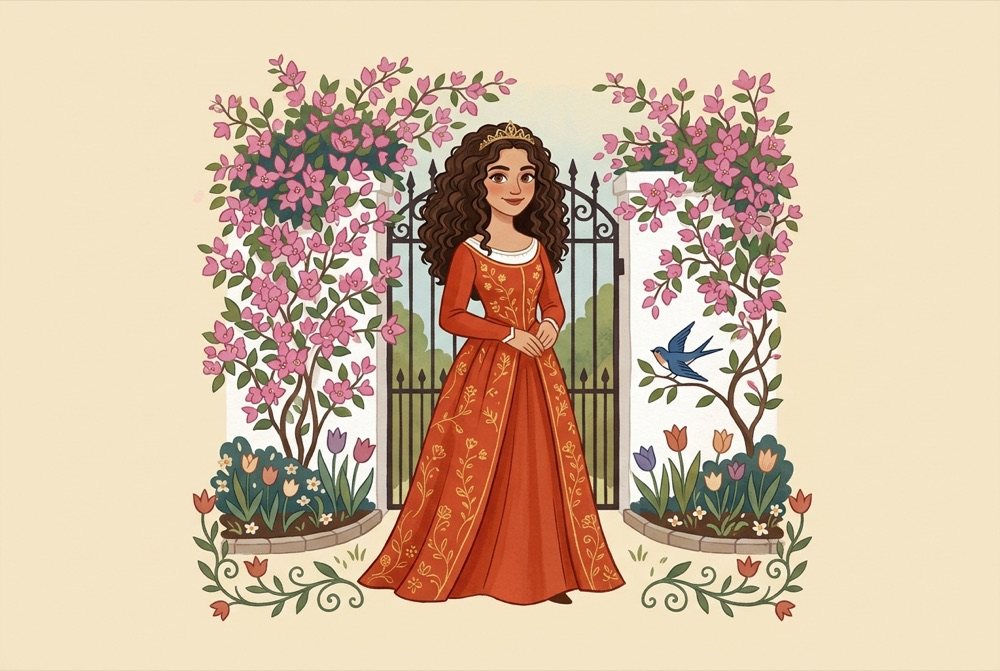
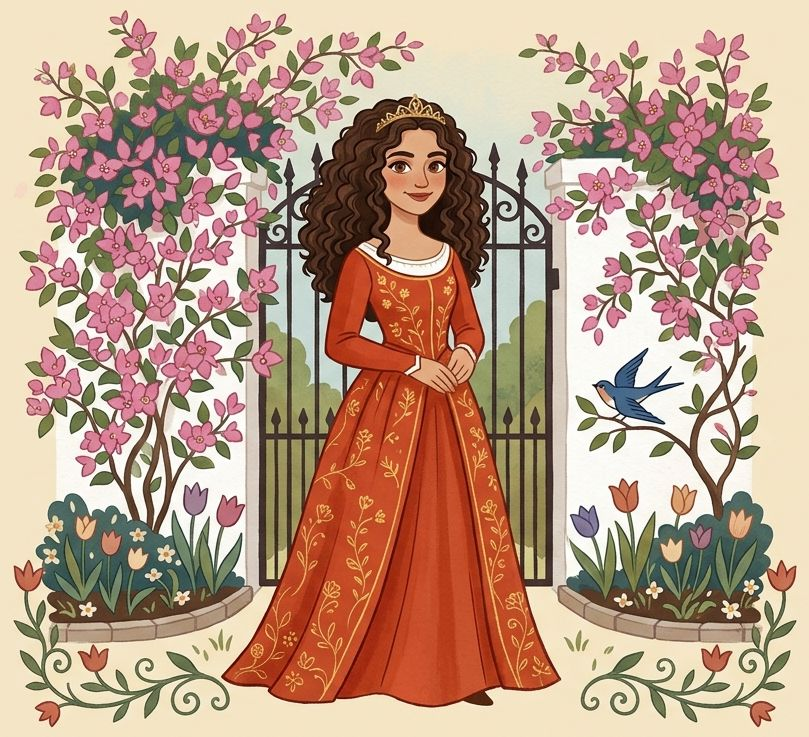
Resimlerin boş kenarlarını kırp, sayfa boşluklarını daralt, yazıları büyüt

diff --git a/src/styles.css b/src/styles.css
@@ -114,7 +114,7 @@ main {
   margin: 0 -4cqw 4cqw; padding: 1.4cqw; background: #d7b06a; border-radius: 1cqw;
   box-shadow: 0 .6cqw 1.6cqw rgba(0, 0, 0, .6), inset 0 0 0 .4cqw #8a6a2a;
 }
-.plate img { display: block; width: 100%; aspect-ratio: 1264 / 848; object-fit: cover; border-radius: .5cqw; border: .3cqw solid #5c3a14; }
+.plate img { display: block; width: 100%; height: auto; border-radius: .5cqw; border: .3cqw solid #5c3a14; }
 .cover-text p { font-style: italic; font-size: 5.6cqw; line-height: 1.2; color: #cfa766; text-shadow: 0 .25cqw 0 rgba(40, 20, 5, .8); }
 
 /* ---------- parchment pages ---------- */
@@ -126,7 +126,7 @@ main {
   background-size: cover;
   color: var(--ink);
   display: flex; flex-direction: column;
-  padding: 4.5cqw 5cqw 4cqw;
+  padding: 3.5cqw 3.5cqw 3cqw;
   cursor: zoom-in;
 }
 .page.left { border-radius: 10px 3px 3px 10px; }
@@ -149,14 +149,14 @@ main {
 
 .chapter {
   font-family: "Almendra", serif; font-weight: 700; color: var(--red);
-  font-size: 6.4cqw; text-align: center; margin: 2.5cqw 0 1cqw; line-height: 1.05;
+  font-size: 7.4cqw; text-align: center; margin: 1.8cqw 0 1.2cqw; line-height: 1.05;
 }
 .scene { flex: 1; min-height: 0; display: flex; align-items: flex-end; justify-content: center; }
 .scene svg, .scene img { width: 100%; height: 100%; }
-.scene img { object-fit: contain; object-position: center bottom; mix-blend-mode: multiply; user-select: none; }
-.story { font-size: 4.3cqw; line-height: 1.28; font-weight: 600; margin: 2.5cqw 0 1cqw; text-align: left; }
+.scene img { object-fit: contain; object-position: center; mix-blend-mode: multiply; user-select: none; border-radius: 1cqw; }
+.story { font-size: 5.1cqw; line-height: 1.3; font-weight: 600; margin: 2cqw 1cqw .5cqw; text-align: left; }
 .dropcap {
-  float: left; position: relative; width: 11cqw; height: 11cqw; margin: .6cqw 2cqw 0 0;
+  float: left; position: relative; width: 12.5cqw; height: 12.5cqw; margin: .6cqw 2cqw 0 0;
   background: #fbf3dc; border: .45cqw solid var(--ink);
   box-shadow: inset 0 0 0 .7cqw var(--red), inset 0 0 0 .95cqw var(--gold);
   display: grid; place-items: center;
@@ -164,7 +164,7 @@ main {
 .dropcap svg { position: absolute; inset: 1cqw; width: calc(100% - 2cqw); height: calc(100% - 2cqw); }
 .dropcap b {
   position: relative; font-family: "Almendra", serif; font-weight: 700;
-  font-size: 8.4cqw; line-height: 1; color: var(--blue);
+  font-size: 9.6cqw; line-height: 1; color: var(--blue);
   text-shadow: .25cqw .25cqw 0 var(--gold-2);
 }
 .dropcap.big { float: none; flex: none; width: 14cqw; height: 14cqw; margin: 0; }
@@ -172,23 +172,23 @@ main {
 .folio { text-align: center; font-size: 3.4cqw; font-style: italic; opacity: .6; margin-bottom: 1.5cqw; }
 
 .head { display: flex; align-items: flex-start; gap: 2.5cqw; margin: 3cqw 0 1cqw; }
-.head .lead { font-family: "Almendra", serif; font-weight: 700; font-size: 6.2cqw; line-height: 1.1; color: var(--red); padding-top: 1cqw; }
+.head .lead { font-family: "Almendra", serif; font-weight: 700; font-size: 7cqw; line-height: 1.1; color: var(--red); padding-top: 1cqw; }
 .head .lead .ink { color: var(--blue); }
 .couple {
   font-family: "Almendra", serif; font-weight: 700; text-align: center;
-  font-size: 13cqw; color: var(--blue); line-height: 1; margin: auto 0 4cqw;
+  font-size: 16cqw; color: var(--blue); line-height: 1; margin: auto 0 6cqw;
 }
 .couple span { color: var(--red); font-size: .6em; padding: 0 2cqw; }
-.details { list-style: none; display: grid; gap: 3.4cqw; padding: 0 2cqw; margin-bottom: auto; }
-.details li { display: flex; gap: 3cqw; align-items: center; font-size: 5cqw; line-height: 1.15; font-weight: 700; }
+.details { list-style: none; display: grid; gap: 4.5cqw; padding: 0 2cqw; margin-bottom: auto; }
+.details li { display: flex; gap: 3.5cqw; align-items: center; font-size: 6cqw; line-height: 1.15; font-weight: 700; }
 .details small { display: block; font-weight: 500; font-style: italic; font-size: .85em; }
 .details a { color: var(--blue); text-decoration-thickness: .3cqw; text-underline-offset: .6cqw; }
 .ico {
-  flex: none; width: 9cqw; height: 9cqw; display: grid; place-items: center;
+  flex: none; width: 11cqw; height: 11cqw; display: grid; place-items: center;
   background: var(--red); border: .45cqw solid var(--ink); box-shadow: inset 0 0 0 .5cqw var(--gold);
 }
 .ico svg { width: 55%; height: 55%; fill: var(--gold-2); }
-.ever { text-align: center; font-family: "Almendra", serif; font-style: italic; color: var(--green); font-size: 5cqw; margin: 3cqw 0 2.5cqw; }
+.ever { text-align: center; font-family: "Almendra", serif; font-style: italic; color: var(--green); font-size: 6cqw; margin: 3cqw 0 2.5cqw; }
 
 /* ---------- bottom UI ---------- */
 .open-cta {
